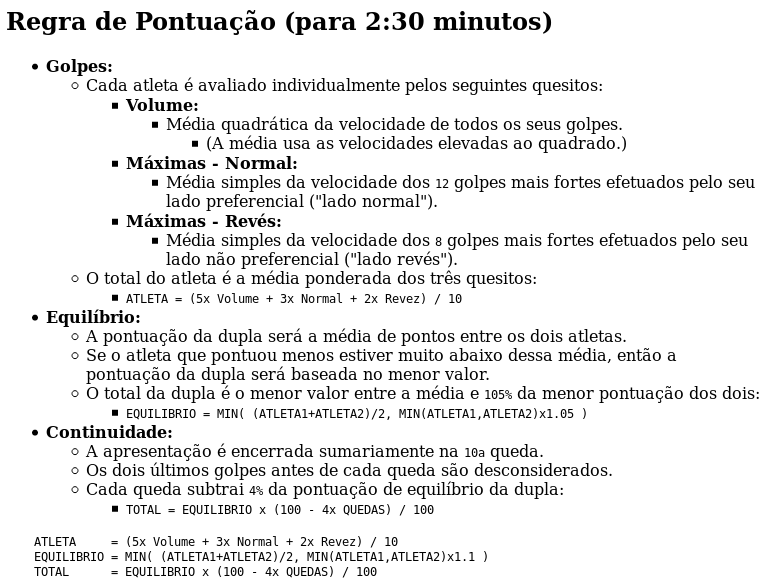
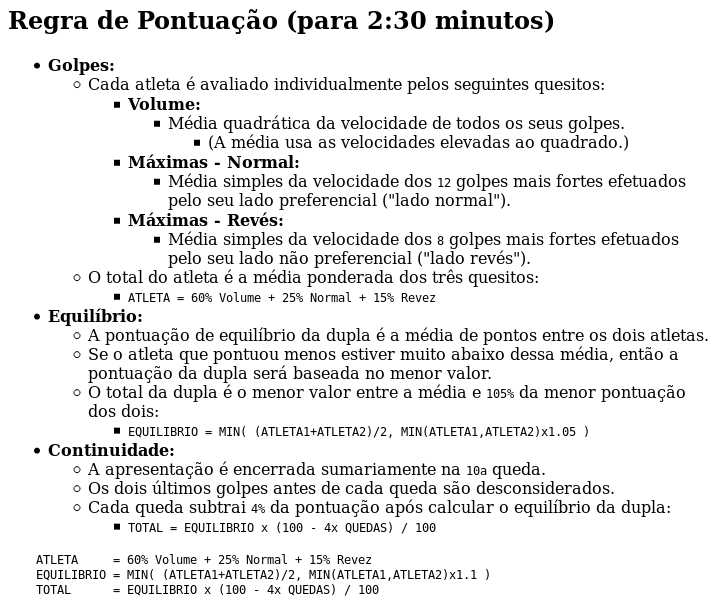
Atualiza regra e imagens.

Changed region(s): [[0.0305, 0.0918, 0.9764, 0.9796], [0.0, 0.0, 0.7628, 0.0612]]

diff --git a/README.md b/README.md
@@ -53,7 +53,7 @@ ser usados, copiados e modificados livremente.**
             - Média simples da velocidade dos `16` golpes mais fortes efetuados
               pelo seu lado não preferencial ("lado revés").
     - O total do atleta é a média ponderada dos três quesitos:
-        - `ATLETA = (5x Volume + 3x Normal + 2x Revez) / 10`
+        - `ATLETA = 60% Volume + 25% Normal + 15% Revez`
 - **Equilíbrio:**
     - A pontuação de equilíbrio da dupla é a média de pontos entre os dois
       atletas.
@@ -69,7 +69,7 @@ ser usados, copiados e modificados livremente.**
         - `TOTAL = EQUILIBRIO x (100 - 2x QUEDAS) / 100`
 
 ```
-    ATLETA     = (5x Volume + 3x Normal + 2x Revez) / 10
+    ATLETA     = 60% Volume + 25% Normal + 15% Revez
     EQUILIBRIO = MIN( (ATLETA1+ATLETA2)/2, MIN(ATLETA1,ATLETA2)x1.1 )
     TOTAL      = EQUILIBRIO x (100 - 2x QUEDAS) / 100
 ```
@@ -88,7 +88,7 @@ ser usados, copiados e modificados livremente.**
             - Média simples da velocidade dos `8` golpes mais fortes efetuados
               pelo seu lado não preferencial ("lado revés").
     - O total do atleta é a média ponderada dos três quesitos:
-        - `ATLETA = (5x Volume + 3x Normal + 2x Revez) / 10`
+        - `ATLETA = 60% Volume + 25% Normal + 15% Revez`
 - **Equilíbrio:**
     - A pontuação de equilíbrio da dupla é a média de pontos entre os dois
       atletas.
@@ -104,7 +104,7 @@ ser usados, copiados e modificados livremente.**
         - `TOTAL = EQUILIBRIO x (100 - 4x QUEDAS) / 100`
 
 ```
-    ATLETA     = (5x Volume + 3x Normal + 2x Revez) / 10
+    ATLETA     = 60% Volume + 25% Normal + 15% Revez
     EQUILIBRIO = MIN( (ATLETA1+ATLETA2)/2, MIN(ATLETA1,ATLETA2)x1.1 )
     TOTAL      = EQUILIBRIO x (100 - 4x QUEDAS) / 100
 ```
